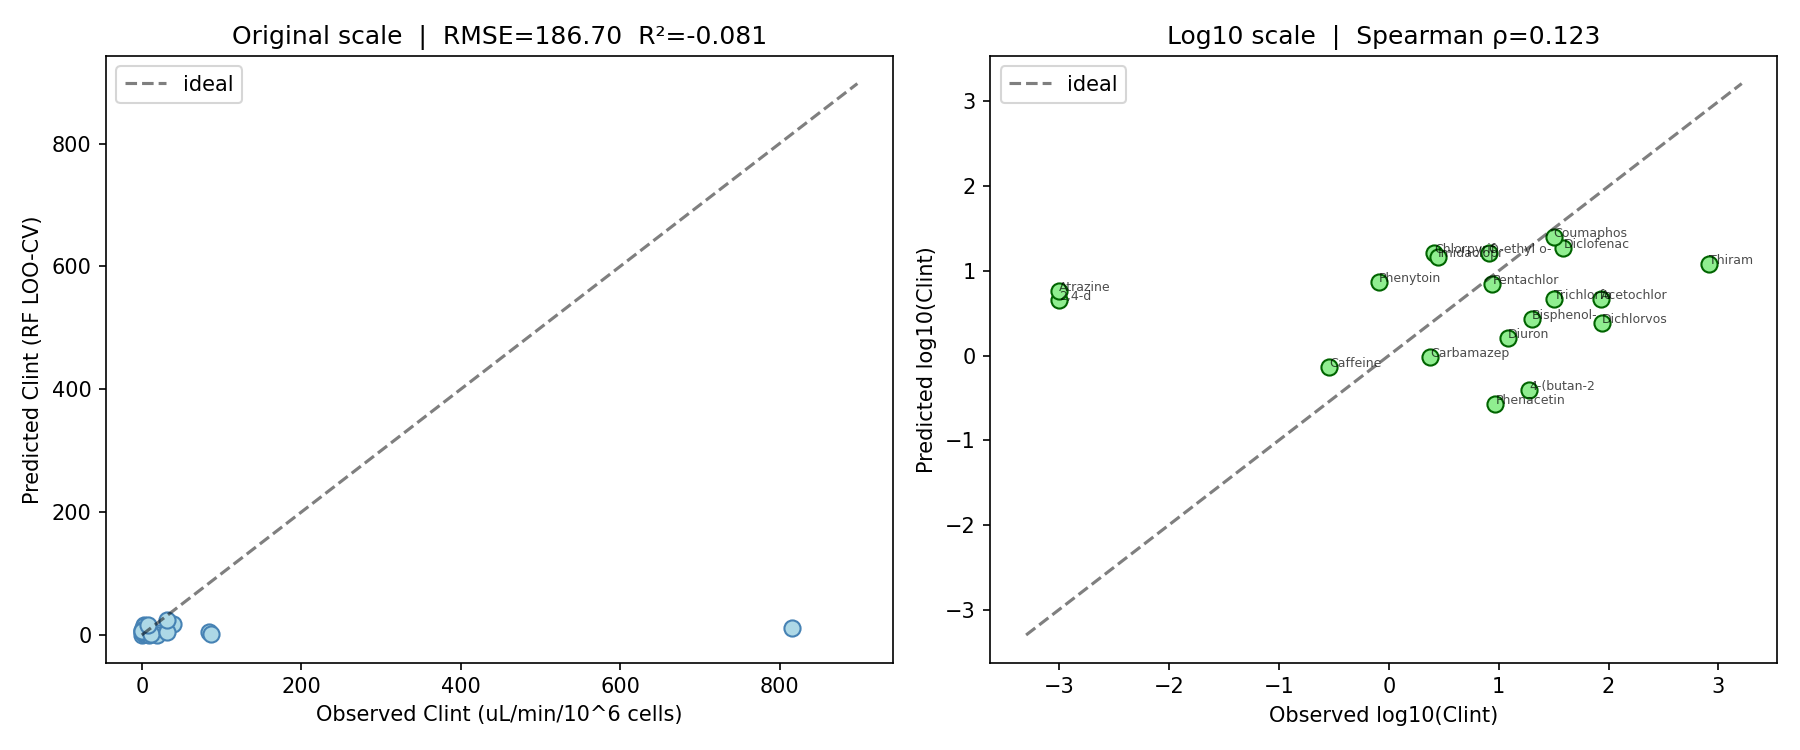
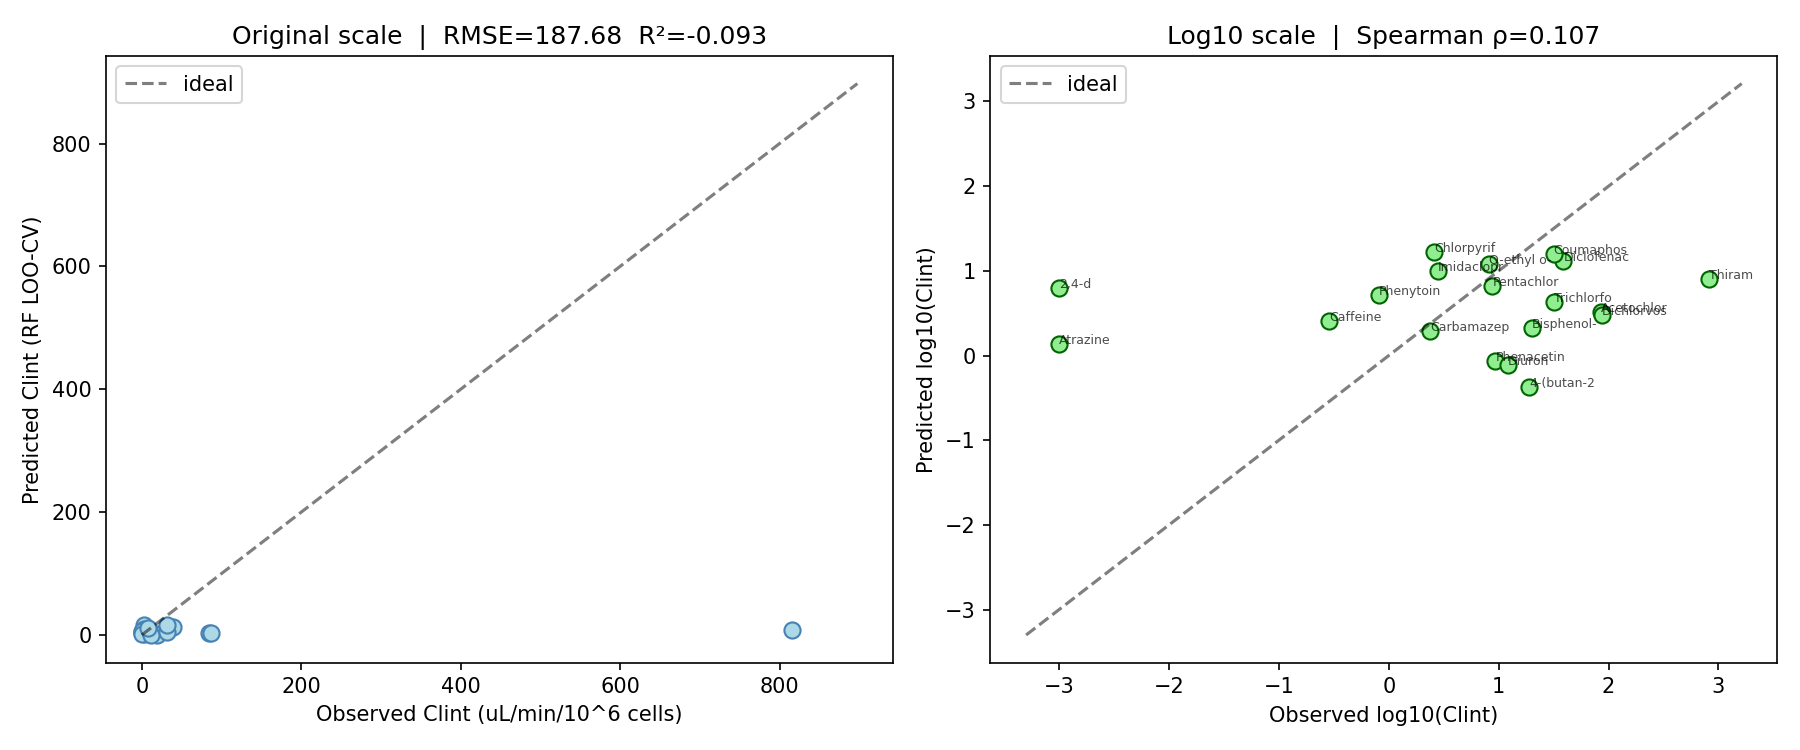
reduce the chemicals descriptoren

diff --git a/scripts/08_bayesian_ber.py b/scripts/08_bayesian_ber.py
@@ -24,7 +24,7 @@ distributions per chemical.
 
 Architecture
 ~~~~~~~~~~~~
-  - Input: 4 physicochemical features (MW, logP, Fup, Rblood2plasma)
+  - Input: 3 physicochemical features (MW, logP, Fup)
   - 3 hidden layers with Dropout(p=0.3) and ReLU activations
   - Output: log10(Clint)
   - Training: MSE loss + L2 regularisation
@@ -103,7 +103,7 @@ class BayesianMLP(nn.Module):
     """
     def __init__(
         self,
-        n_in:       int   = 4,
+        n_in:       int   = 3,
         hidden:     list  = None,
         p_dropout:  float = DROPOUT_P,
     ):
@@ -330,10 +330,15 @@ def plot_posterior_top5(result_df: pd.DataFrame, out_path: Path) -> None:
     """
     df = result_df.dropna(subset=["BER_median"]).nsmallest(5, "BER_median")
 
+    if len(df) == 0:
+        print(f"  WARNING: no chemicals with valid BER_median - skipping {out_path.name}")
+        return
+
     from scipy.stats import gaussian_kde
 
-    fig, axes = plt.subplots(1, len(df), figsize=(4 * len(df), 4), sharey=False)
-    if len(df) == 1:
+    n_cols = max(len(df), 1)
+    fig, axes = plt.subplots(1, n_cols, figsize=(4 * n_cols, 4), sharey=False)
+    if n_cols == 1:
         axes = [axes]
 
     for ax, (_, row) in zip(axes, df.iterrows()):
@@ -404,7 +409,7 @@ def plot_clint_uncertainty(
 
 def main() -> None:
     print("=" * 65)
-    print("Step 8 – Bayesian BER (MC Dropout Uncertainty Analysis)")
+    print("Step 8 - Bayesian BER (MC Dropout Uncertainty Analysis)")
     print("=" * 65, "\n")
 
     # ─ Load data ─────────────────────────────────────────────────────────────
@@ -417,7 +422,7 @@ def main() -> None:
         print(f"AED/BER results:  {len(aed_ber)} rows")
 
     # ─ Feature matrix ────────────────────────────────────────────────────────
-    feature_cols = ["MW", "logP", "Fup", "Rblood2plasma"]
+    feature_cols = ["MW", "logP", "Fup"]
     target_col   = next((c for c in ("Clint_final", "Clint", "Clint_RF")
                          if c in pilot.columns), None)
     if target_col is None:
@@ -432,19 +437,19 @@ def main() -> None:
     print(f"Training samples: {len(X)}")
 
     # ─ Train Bayesian MLP ────────────────────────────────────────────────────
-    print(f"\nTraining BNN ({EPOCHS} epochs max, dropout p={DROPOUT_P}) …")
+    print(f"\nTraining BNN ({EPOCHS} epochs max, dropout p={DROPOUT_P}) ...")
     model, scaler_X, scaler_y = train_bayesian_mlp(X, y)
     print("Training complete.")
 
     # ─ MC Dropout posterior sampling ─────────────────────────────────────────
-    print(f"Sampling {N_MC} posterior draws per chemical …")
+    print(f"Sampling {N_MC} posterior draws per chemical ...")
     pilot_sub  = pilot.loc[sub.index].reset_index(drop=True)
     X_pilot    = sub[available].values.astype(np.float32)
     mc_samples = mc_predict(model, X_pilot, scaler_X, scaler_y, n_mc=N_MC)
     print(f"Posterior samples shape: {mc_samples.shape}")
 
     # ─ BER propagation ───────────────────────────────────────────────────────
-    print("Propagating Clint uncertainty → AED → BER …")
+    print("Propagating Clint uncertainty -> AED -> BER ...")
     result_df = propagate_to_ber(mc_samples, pilot_sub, aed_ber)
 
     # ─ Save CSV (drop raw samples) ───────────────────────────────────────────
@@ -468,10 +473,10 @@ def main() -> None:
     cols = [c for c in cols if c in show.columns]
     print(show[cols].to_string(index=False))
     print("\nOutputs saved to results/")
-    print("  bayesian_ber.csv                  – full posterior BER summary")
-    print("  ber_credible_intervals.png         – waterfall + 90 % CI")
-    print("  ber_posterior_top5.png             – density plots, top-5 chemicals")
-    print("  clint_posterior_uncertainty.png    – BNN Clint uncertainty scatter")
+    print("  bayesian_ber.csv                  - full posterior BER summary")
+    print("  ber_credible_intervals.png         - waterfall + 90 % CI")
+    print("  ber_posterior_top5.png             - density plots, top-5 chemicals")
+    print("  clint_posterior_uncertainty.png    - BNN Clint uncertainty scatter")
     print("\nDone.\n")
 
 

diff --git a/scripts/07_xai_shap_analysis.py b/scripts/07_xai_shap_analysis.py
@@ -81,7 +81,7 @@ def section_a_rf_clint(pilot: pd.DataFrame) -> None:
     print("\n── A) RF Clint prediction – SHAP analysis ──")
 
     # Features used in Step 2
-    feature_cols = ["MW", "logP", "Fup", "Rblood2plasma"]
+    feature_cols = ["MW", "logP", "Fup"]
     available    = [c for c in feature_cols if c in pilot.columns]
 
     target_col = None
@@ -181,10 +181,9 @@ def section_a_rf_clint(pilot: pd.DataFrame) -> None:
 
     # ─ Plot 3 & 4: Dependence plots ───────────────────────────────────────────
     for feat_main, feat_interact in [
-        ("logP",         "Fup"),
-        ("Fup",          "logP"),
-        ("MW",           "logP"),
-        ("Rblood2plasma","Fup"),
+        ("logP", "Fup"),
+        ("Fup",  "logP"),
+        ("MW",   "logP"),
     ]:
         if feat_main not in available:
             continue
@@ -242,7 +241,7 @@ def section_b_ber(pilot: pd.DataFrame) -> None:
     ber_sub = ber_df[ber_df["BER"].notna() & (ber_df["BER"] > 0)].copy()
 
     # Merge with pilot descriptors (CAS-based)
-    merge_cols = ["MW", "logP", "Fup", "Rblood2plasma"]
+    merge_cols = ["MW", "logP", "Fup"]
     cas_col    = "CAS" if "CAS" in pilot.columns else None
     if cas_col and "CAS" in ber_sub.columns:
         merged = ber_sub.merge(

diff --git a/scripts/02_rf_predict_clint.py b/scripts/02_rf_predict_clint.py
@@ -2,7 +2,7 @@
 02_rf_predict_clint.py
 ----------------------
 Trains a Random Forest regressor to predict hepatic intrinsic clearance (Clint)
-from physicochemical descriptors (MW, logP, Fup, Rblood2plasma).
+from physicochemical descriptors (MW, logP, Fup).
 
 Evaluation strategy:
   - Leave-One-Out Cross-Validation (LOO-CV) on the 20 pilot chemicals
@@ -48,7 +48,7 @@ print(f"Loaded {len(df)} chemicals from {FULL_CSV.name}")
 print(df[["CAS", "Compound", "Clint"]].to_string(index=False))
 print()
 
-FEATURES = ["MW", "logP", "Fup", "Rblood2plasma"]
+FEATURES = ["MW", "logP", "Fup"]
 TARGET = "Clint"
 
 # Keep all rows with a known target. Missing feature values are imputed.
